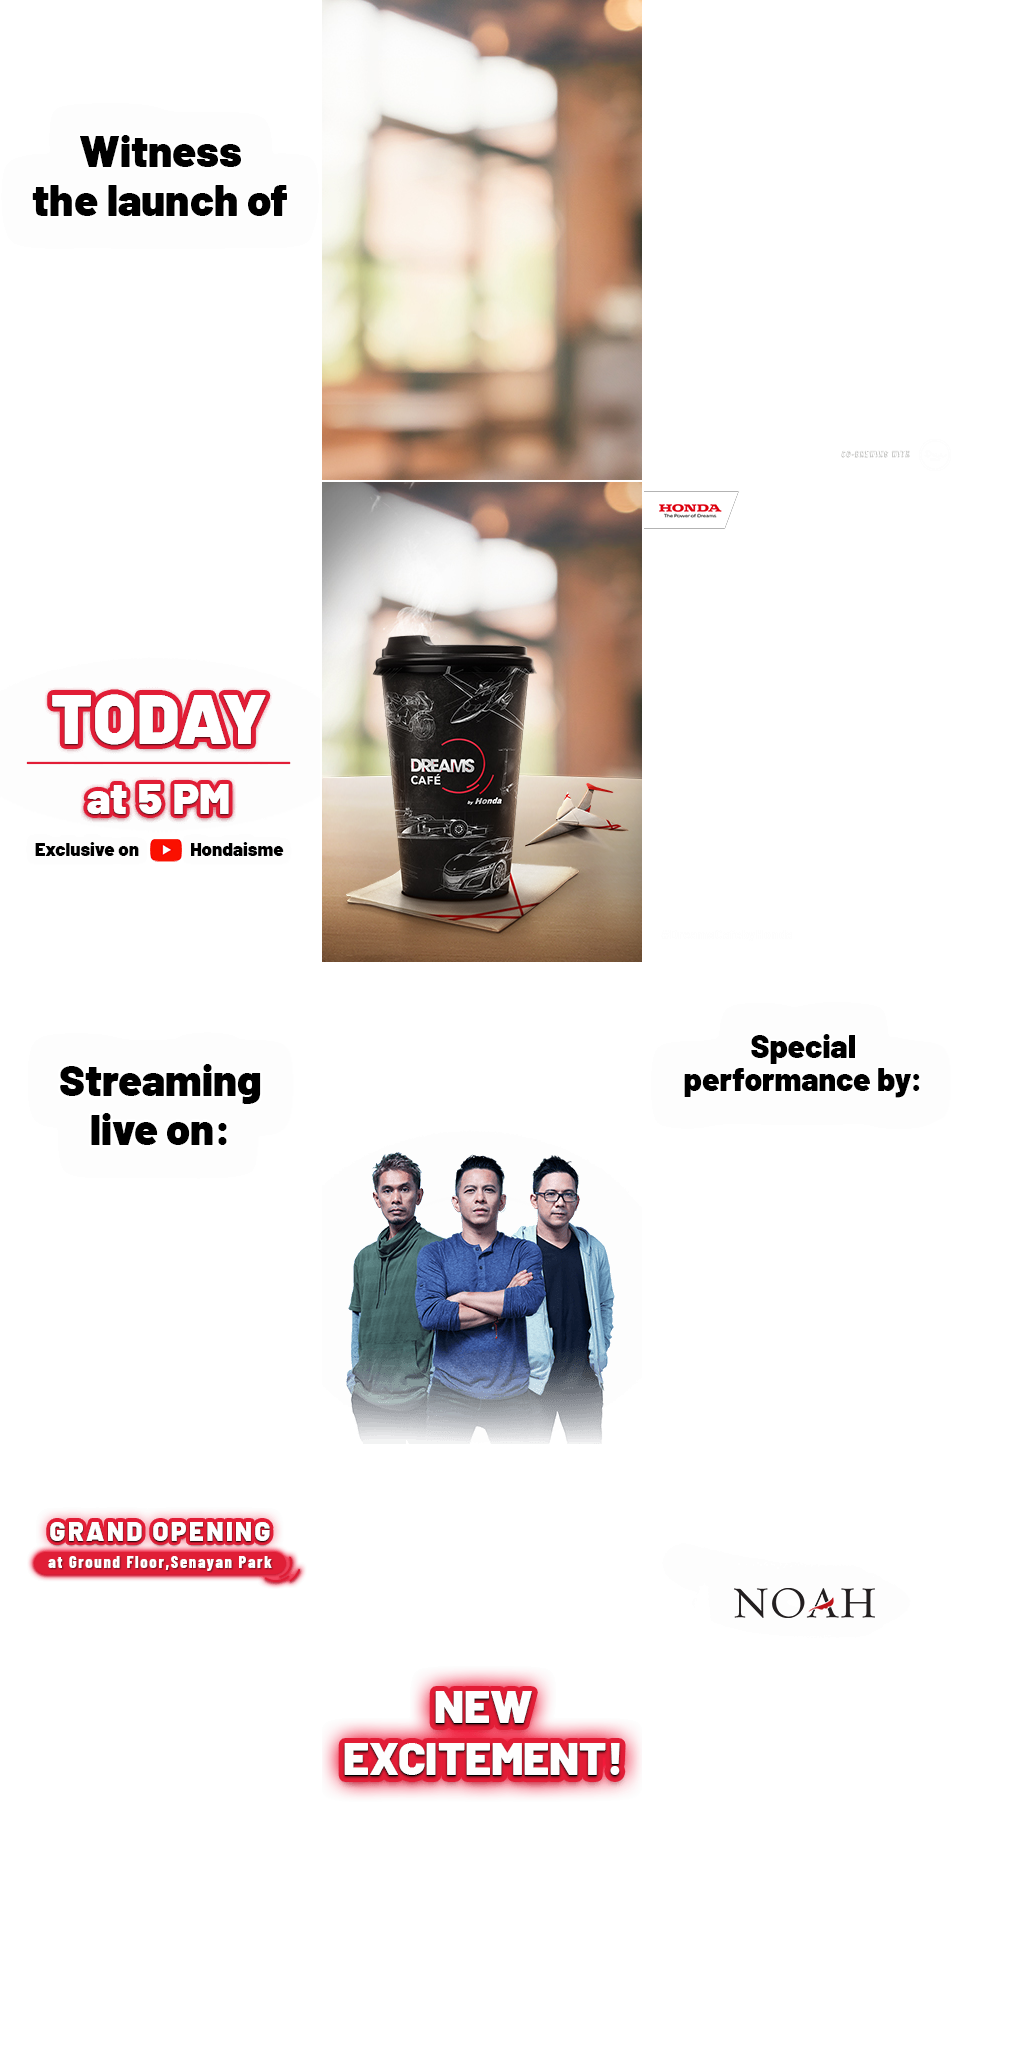
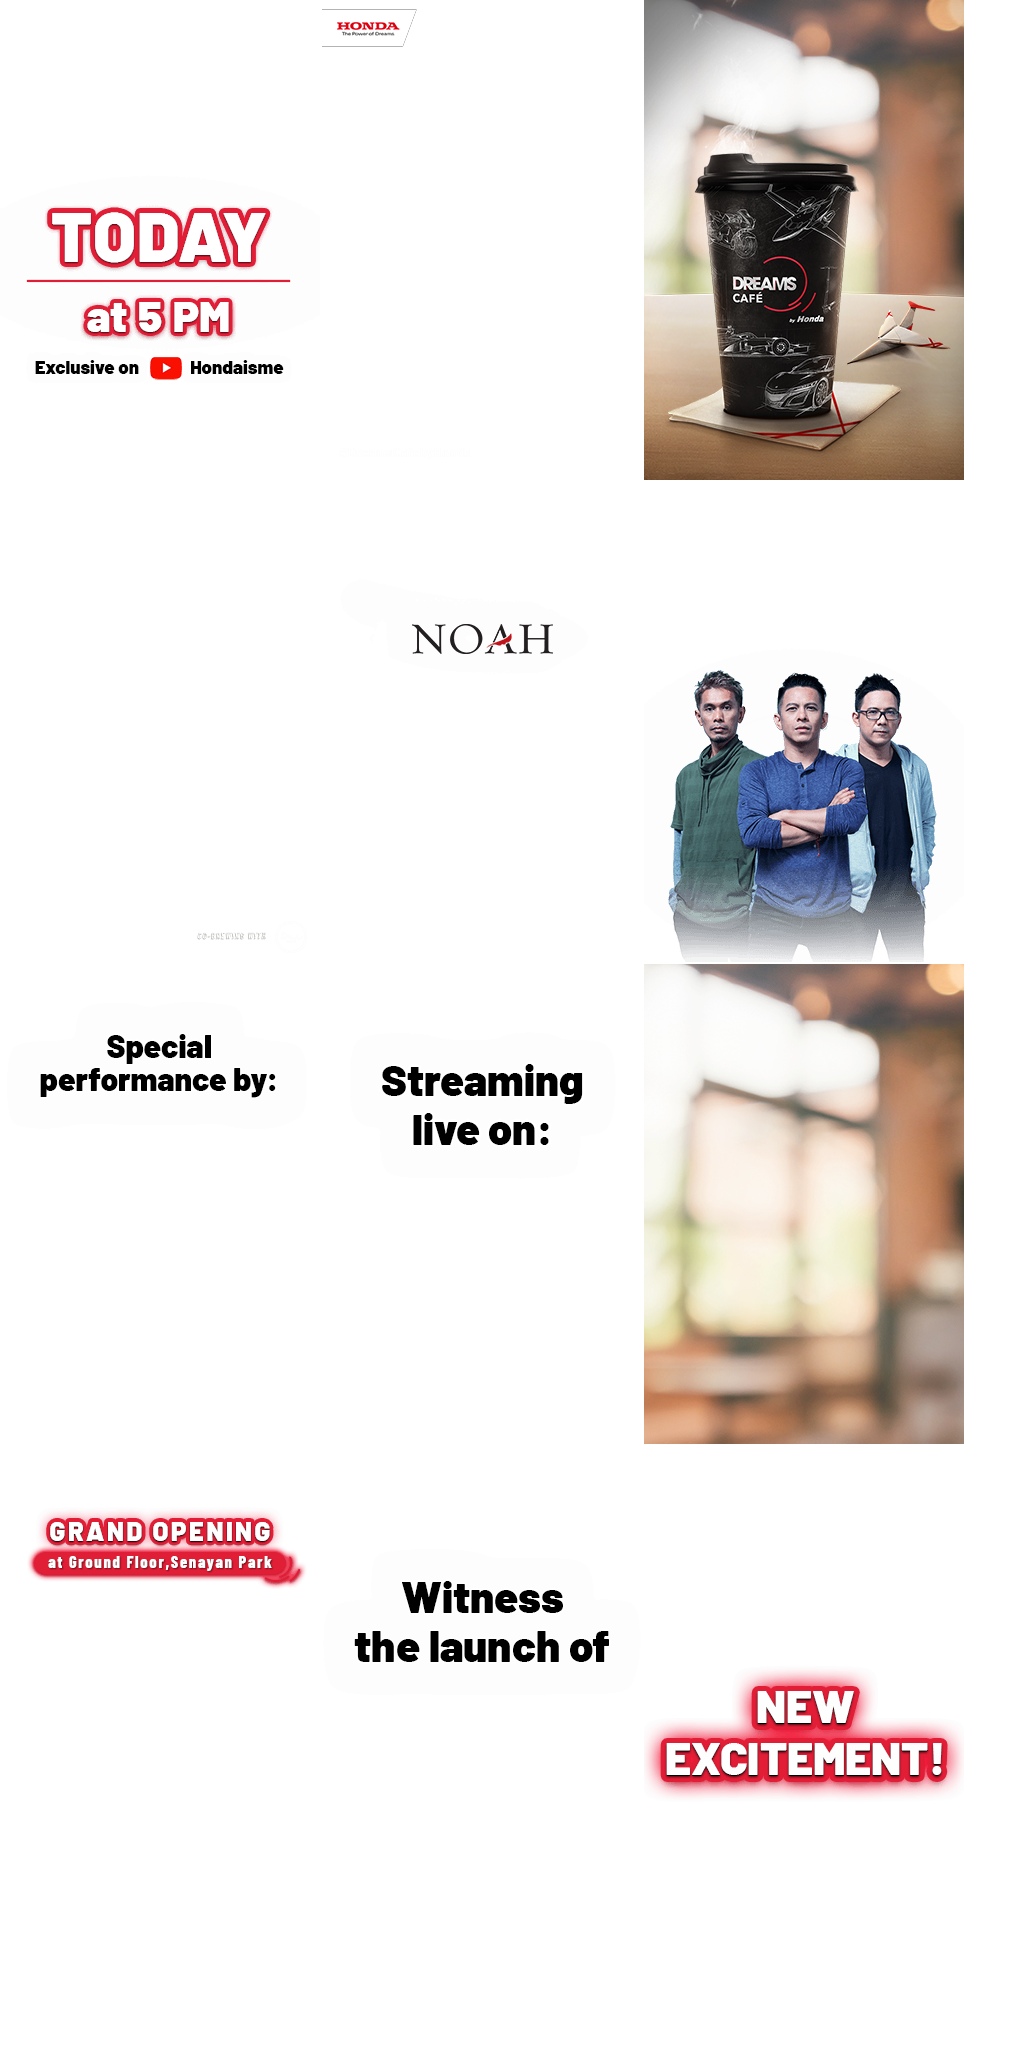
sef

diff --git a/m.idntimes/megabillboard/honda-april/d2/src/320x480/320x480.js b/m.idntimes/megabillboard/honda-april/d2/src/320x480/320x480.js
@@ -3,7 +3,7 @@
 var p; // shortcut to reference prototypes
 var lib={};var ss={};var img={};
 lib.ssMetadata = [
-		{name:"320x480_atlas_", frames: [[322,0,320,480],[644,0,320,480],[0,0,320,480],[322,1446,320,480],[0,1446,320,480],[644,1446,320,480],[322,964,320,480],[644,964,320,480],[0,964,320,480],[0,482,320,480],[322,482,320,480],[644,482,320,480]]}
+		{name:"320x480_atlas_", frames: [[644,964,320,480],[0,482,320,480],[322,1446,320,480],[644,1446,320,480],[0,1446,320,480],[322,482,320,480],[644,482,320,480],[0,964,320,480],[322,964,320,480],[0,0,320,480],[644,0,320,480],[322,0,320,480]]}
 ];
 
 
@@ -382,7 +382,7 @@ p.nominalBounds = new cjs.Rectangle(-160,-240,320,480);
 	this.instance = new lib.logo();
 	this.instance.parent = this;
 
-	this.timeline.addTween(cjs.Tween.get(this.instance).wait(225));
+	this.timeline.addTween(cjs.Tween.get(this.instance).wait(285));
 
 }).prototype = p = new cjs.MovieClip();
 
@@ -394,7 +394,7 @@ p.nominalBounds = new cjs.Rectangle(-160,-240,320,480);
 	this.instance = new lib.bg();
 	this.instance.parent = this;
 
-	this.timeline.addTween(cjs.Tween.get(this.instance).wait(225));
+	this.timeline.addTween(cjs.Tween.get(this.instance).wait(285));
 
 }).prototype = p = new cjs.MovieClip();
 
@@ -414,8 +414,8 @@ p.nominalBounds = new cjs.Rectangle(-160,-240,320,480);
 	this.instance_1.setTransform(160,240);
 	this.instance_1._off = true;
 
-	this.timeline.addTween(cjs.Tween.get(this.instance).wait(7).to({_off:false},0).to({_off:true,x:160,alpha:1},5,cjs.Ease.quintOut).wait(43));
-	this.timeline.addTween(cjs.Tween.get(this.instance_1).wait(7).to({_off:false},5,cjs.Ease.quintOut).wait(36).to({startPosition:0},0).to({x:475.15,alpha:0},6,cjs.Ease.quintIn).wait(1));
+	this.timeline.addTween(cjs.Tween.get(this.instance).wait(7).to({_off:false},0).to({_off:true,x:160,alpha:1},7,cjs.Ease.quintOut).wait(57));
+	this.timeline.addTween(cjs.Tween.get(this.instance_1).wait(7).to({_off:false},7,cjs.Ease.quintOut).wait(48).to({startPosition:0},0).to({x:475.15,alpha:0},8,cjs.Ease.quadIn).wait(1));
 
 }).prototype = p = new cjs.MovieClip();
 
@@ -426,7 +426,7 @@ p.nominalBounds = new cjs.Rectangle(-160,-240,320,480);
 	// frame11
 	this.instance = new lib.Tween1("synched",0);
 	this.instance.parent = this;
-	this.instance.setTransform(460.45,240);
+	this.instance.setTransform(454.55,240);
 	this.instance.alpha = 0;
 	this.instance._off = true;
 
@@ -435,8 +435,8 @@ p.nominalBounds = new cjs.Rectangle(-160,-240,320,480);
 	this.instance_1.setTransform(160,240);
 	this.instance_1._off = true;
 
-	this.timeline.addTween(cjs.Tween.get(this.instance).wait(4).to({_off:false},0).to({_off:true,x:160,alpha:1},5,cjs.Ease.quintOut).wait(46));
-	this.timeline.addTween(cjs.Tween.get(this.instance_1).wait(4).to({_off:false},5,cjs.Ease.quintOut).wait(39).to({startPosition:0},0).to({x:-132.65,alpha:0},6,cjs.Ease.quintIn).wait(1));
+	this.timeline.addTween(cjs.Tween.get(this.instance).wait(4).to({_off:false},0).to({_off:true,x:160,alpha:1},7,cjs.Ease.quintOut).wait(60));
+	this.timeline.addTween(cjs.Tween.get(this.instance_1).wait(4).to({_off:false},7,cjs.Ease.quintOut).wait(51).to({startPosition:0},0).to({x:-132.65,alpha:0},8,cjs.Ease.quadIn).wait(1));
 
 }).prototype = p = new cjs.MovieClip();
 
@@ -455,8 +455,8 @@ p.nominalBounds = new cjs.Rectangle(-160,-240,320,480);
 	this.instance_1.parent = this;
 	this.instance_1.setTransform(160,240);
 
-	this.timeline.addTween(cjs.Tween.get({}).to({state:[]}).to({state:[{t:this.instance}]},173).to({state:[{t:this.instance_1}]},6).wait(46));
-	this.timeline.addTween(cjs.Tween.get(this.instance).wait(173).to({_off:false},0).to({_off:true,y:240,alpha:1},6,cjs.Ease.quintOut).wait(46));
+	this.timeline.addTween(cjs.Tween.get({}).to({state:[]}).to({state:[{t:this.instance}]},215).to({state:[{t:this.instance_1}]},8).wait(62));
+	this.timeline.addTween(cjs.Tween.get(this.instance).wait(215).to({_off:false},0).to({_off:true,y:240,alpha:1},8,cjs.Ease.quintOut).wait(62));
 
 }).prototype = p = new cjs.MovieClip();
 
@@ -475,8 +475,8 @@ p.nominalBounds = new cjs.Rectangle(-160,-240,320,480);
 	this.instance_1.parent = this;
 	this.instance_1.setTransform(160,240);
 
-	this.timeline.addTween(cjs.Tween.get({}).to({state:[]}).to({state:[{t:this.instance}]},167).to({state:[{t:this.instance_1}]},7).wait(51));
-	this.timeline.addTween(cjs.Tween.get(this.instance).wait(167).to({_off:false},0).to({_off:true,regX:0,scaleX:1,scaleY:1,x:160,y:240,alpha:1},7,cjs.Ease.quintOut).wait(51));
+	this.timeline.addTween(cjs.Tween.get({}).to({state:[]}).to({state:[{t:this.instance}]},211).to({state:[{t:this.instance_1}]},8).wait(66));
+	this.timeline.addTween(cjs.Tween.get(this.instance).wait(211).to({_off:false},0).to({_off:true,regX:0,scaleX:1,scaleY:1,x:160,y:240,alpha:1},8,cjs.Ease.quintOut).wait(66));
 
 }).prototype = p = new cjs.MovieClip();
 
@@ -487,7 +487,7 @@ p.nominalBounds = new cjs.Rectangle(-160,-240,320,480);
 	// frame3text
 	this.instance = new lib.Tween11("synched",0);
 	this.instance.parent = this;
-	this.instance.setTransform(160,177.4);
+	this.instance.setTransform(160,96.2);
 	this.instance.alpha = 0;
 	this.instance._off = true;
 
@@ -496,8 +496,8 @@ p.nominalBounds = new cjs.Rectangle(-160,-240,320,480);
 	this.instance_1.setTransform(160,240);
 	this.instance_1._off = true;
 
-	this.timeline.addTween(cjs.Tween.get(this.instance).wait(109).to({_off:false},0).to({_off:true,y:240,alpha:1},5,cjs.Ease.quintOut).wait(56));
-	this.timeline.addTween(cjs.Tween.get(this.instance_1).wait(109).to({_off:false},5,cjs.Ease.quintOut).wait(50).to({startPosition:0},0).to({alpha:0},5,cjs.Ease.quintIn).wait(1));
+	this.timeline.addTween(cjs.Tween.get(this.instance).wait(136).to({_off:false},0).to({_off:true,y:240,alpha:1},8,cjs.Ease.quintOut).wait(70));
+	this.timeline.addTween(cjs.Tween.get(this.instance_1).wait(136).to({_off:false},8,cjs.Ease.quintOut).wait(64).to({startPosition:0},0).to({alpha:0},5,cjs.Ease.quintIn).wait(1));
 
 }).prototype = p = new cjs.MovieClip();
 
@@ -517,8 +517,8 @@ p.nominalBounds = new cjs.Rectangle(-160,-240,320,480);
 	this.instance_1.setTransform(160,240);
 	this.instance_1._off = true;
 
-	this.timeline.addTween(cjs.Tween.get(this.instance).wait(114).to({_off:false},0).to({_off:true,y:240,alpha:1},5,cjs.Ease.quintOut).wait(51));
-	this.timeline.addTween(cjs.Tween.get(this.instance_1).wait(114).to({_off:false},5,cjs.Ease.quintOut).wait(45).to({startPosition:0},0).to({y:407.4,alpha:0},5,cjs.Ease.quintIn).wait(1));
+	this.timeline.addTween(cjs.Tween.get(this.instance).wait(141).to({_off:false},0).to({_off:true,y:240,alpha:1},7,cjs.Ease.quintOut).wait(66));
+	this.timeline.addTween(cjs.Tween.get(this.instance_1).wait(141).to({_off:false},7,cjs.Ease.quintOut).wait(60).to({startPosition:0},0).to({y:407.4,alpha:0},5,cjs.Ease.quintIn).wait(1));
 
 }).prototype = p = new cjs.MovieClip();
 
@@ -538,8 +538,8 @@ p.nominalBounds = new cjs.Rectangle(-160,-240,320,480);
 	this.instance_1.setTransform(160,240);
 	this.instance_1._off = true;
 
-	this.timeline.addTween(cjs.Tween.get(this.instance).wait(114).to({_off:false},0).to({_off:true,scaleX:1,scaleY:1,y:240,alpha:1},5,cjs.Ease.quintOut).wait(51));
-	this.timeline.addTween(cjs.Tween.get(this.instance_1).wait(114).to({_off:false},5,cjs.Ease.quintOut).wait(45).to({startPosition:0},0).to({alpha:0},5,cjs.Ease.quintIn).wait(1));
+	this.timeline.addTween(cjs.Tween.get(this.instance).wait(141).to({_off:false},0).to({_off:true,scaleX:1,scaleY:1,y:240,alpha:1},7,cjs.Ease.quintOut).wait(66));
+	this.timeline.addTween(cjs.Tween.get(this.instance_1).wait(141).to({_off:false},7,cjs.Ease.quintOut).wait(60).to({startPosition:0},0).to({alpha:0},5,cjs.Ease.quintIn).wait(1));
 
 }).prototype = p = new cjs.MovieClip();
 
@@ -559,8 +559,8 @@ p.nominalBounds = new cjs.Rectangle(-160,-240,320,480);
 	this.instance_1.setTransform(160,240);
 	this.instance_1._off = true;
 
-	this.timeline.addTween(cjs.Tween.get(this.instance).wait(57).to({_off:false},0).to({_off:true,alpha:1},7,cjs.Ease.quintOut).wait(49));
-	this.timeline.addTween(cjs.Tween.get(this.instance_1).wait(57).to({_off:false},7,cjs.Ease.quintOut).wait(41).to({startPosition:0},0).to({alpha:0},7).wait(1));
+	this.timeline.addTween(cjs.Tween.get(this.instance).wait(74).to({_off:false},0).to({_off:true,alpha:1},7,cjs.Ease.quintOut).wait(60));
+	this.timeline.addTween(cjs.Tween.get(this.instance_1).wait(74).to({_off:false},7,cjs.Ease.quintOut).wait(52).to({startPosition:0},0).to({alpha:0},7).wait(1));
 
 }).prototype = p = new cjs.MovieClip();
 
@@ -580,8 +580,8 @@ p.nominalBounds = new cjs.Rectangle(-160,-240,320,480);
 	this.instance_1.setTransform(160,240);
 	this.instance_1._off = true;
 
-	this.timeline.addTween(cjs.Tween.get(this.instance).wait(52).to({_off:false},0).to({_off:true,alpha:1},7).wait(54));
-	this.timeline.addTween(cjs.Tween.get(this.instance_1).wait(52).to({_off:false},7).wait(46).to({startPosition:0},0).to({alpha:0},7).wait(1));
+	this.timeline.addTween(cjs.Tween.get(this.instance).wait(69).to({_off:false},0).to({_off:true,alpha:1},7).wait(65));
+	this.timeline.addTween(cjs.Tween.get(this.instance_1).wait(69).to({_off:false},7).wait(57).to({startPosition:0},0).to({alpha:0},7).wait(1));
 
 }).prototype = p = new cjs.MovieClip();
 
@@ -600,8 +600,8 @@ p.nominalBounds = new cjs.Rectangle(-160,-240,320,480);
 	this.instance_1.parent = this;
 	this.instance_1.setTransform(160,240);
 
-	this.timeline.addTween(cjs.Tween.get({}).to({state:[]}).to({state:[{t:this.instance}]},59).to({state:[{t:this.instance_1}]},10).wait(156));
-	this.timeline.addTween(cjs.Tween.get(this.instance).wait(59).to({_off:false},0).to({_off:true,alpha:1},10).wait(156));
+	this.timeline.addTween(cjs.Tween.get({}).to({state:[]}).to({state:[{t:this.instance}]},75).to({state:[{t:this.instance_1}]},10).wait(200));
+	this.timeline.addTween(cjs.Tween.get(this.instance).wait(75).to({_off:false},0).to({_off:true,alpha:1},10).wait(200));
 
 }).prototype = p = new cjs.MovieClip();
 
@@ -640,12 +640,12 @@ p.nominalBounds = new cjs.Rectangle(-160,-240,320,480);
 	});
 
 	// timeline functions:
-	this.frame_224 = function() {
+	this.frame_284 = function() {
 		this.___loopingOver___ = true;
 	}
 
 	// actions tween:
-	this.timeline.addTween(cjs.Tween.get(this).wait(224).call(this.frame_224).wait(1));
+	this.timeline.addTween(cjs.Tween.get(this).wait(284).call(this.frame_284).wait(1));
 
 	// logo_obj_
 	this.logo = new lib.Scene_1_logo();
@@ -659,7 +659,7 @@ p.nominalBounds = new cjs.Rectangle(-160,-240,320,480);
 	this.logo.layerIndex = 0
 	this.logo.maskLayerName = 0
 
-	this.timeline.addTween(cjs.Tween.get(this.logo).wait(225));
+	this.timeline.addTween(cjs.Tween.get(this.logo).wait(285));
 
 	// dualogo_obj_
 	this.dualogo = new lib.Scene_1_dualogo();
@@ -672,7 +672,7 @@ p.nominalBounds = new cjs.Rectangle(-160,-240,320,480);
 	this.dualogo.layerIndex = 1
 	this.dualogo.maskLayerName = 0
 
-	this.timeline.addTween(cjs.Tween.get(this.dualogo).wait(225));
+	this.timeline.addTween(cjs.Tween.get(this.dualogo).wait(285));
 
 	// frame4today_obj_
 	this.frame4today = new lib.Scene_1_frame4today();
@@ -685,7 +685,7 @@ p.nominalBounds = new cjs.Rectangle(-160,-240,320,480);
 	this.frame4today.layerIndex = 2
 	this.frame4today.maskLayerName = 0
 
-	this.timeline.addTween(cjs.Tween.get(this.frame4today).wait(225));
+	this.timeline.addTween(cjs.Tween.get(this.frame4today).wait(285));
 
 	// frame4stream_obj_
 	this.frame4stream = new lib.Scene_1_frame4stream();
@@ -698,7 +698,7 @@ p.nominalBounds = new cjs.Rectangle(-160,-240,320,480);
 	this.frame4stream.layerIndex = 3
 	this.frame4stream.maskLayerName = 0
 
-	this.timeline.addTween(cjs.Tween.get(this.frame4stream).wait(225));
+	this.timeline.addTween(cjs.Tween.get(this.frame4stream).wait(285));
 
 	// frame3logo_obj_
 	this.frame3logo = new lib.Scene_1_frame3logo();
@@ -711,7 +711,7 @@ p.nominalBounds = new cjs.Rectangle(-160,-240,320,480);
 	this.frame3logo.layerIndex = 4
 	this.frame3logo.maskLayerName = 0
 
-	this.timeline.addTween(cjs.Tween.get(this.frame3logo).wait(169).to({_off:true},1).wait(55));
+	this.timeline.addTween(cjs.Tween.get(this.frame3logo).wait(213).to({_off:true},1).wait(71));
 
 	// frame3noah_obj_
 	this.frame3noah = new lib.Scene_1_frame3noah();
@@ -724,7 +724,7 @@ p.nominalBounds = new cjs.Rectangle(-160,-240,320,480);
 	this.frame3noah.layerIndex = 5
 	this.frame3noah.maskLayerName = 0
 
-	this.timeline.addTween(cjs.Tween.get(this.frame3noah).wait(169).to({_off:true},1).wait(55));
+	this.timeline.addTween(cjs.Tween.get(this.frame3noah).wait(213).to({_off:true},1).wait(71));
 
 	// frame3text_obj_
 	this.frame3text = new lib.Scene_1_frame3text();
@@ -737,7 +737,7 @@ p.nominalBounds = new cjs.Rectangle(-160,-240,320,480);
 	this.frame3text.layerIndex = 6
 	this.frame3text.maskLayerName = 0
 
-	this.timeline.addTween(cjs.Tween.get(this.frame3text).wait(169).to({_off:true},1).wait(55));
+	this.timeline.addTween(cjs.Tween.get(this.frame3text).wait(213).to({_off:true},1).wait(71));
 
 	// frame2text_obj_
 	this.frame2text = new lib.Scene_1_frame2text();
@@ -750,7 +750,7 @@ p.nominalBounds = new cjs.Rectangle(-160,-240,320,480);
 	this.frame2text.layerIndex = 7
 	this.frame2text.maskLayerName = 0
 
-	this.timeline.addTween(cjs.Tween.get(this.frame2text).wait(112).to({_off:true},1).wait(112));
+	this.timeline.addTween(cjs.Tween.get(this.frame2text).wait(140).to({_off:true},1).wait(144));
 
 	// frame2kopi_obj_
 	this.frame2kopi = new lib.Scene_1_frame2kopi();
@@ -763,7 +763,7 @@ p.nominalBounds = new cjs.Rectangle(-160,-240,320,480);
 	this.frame2kopi.layerIndex = 8
 	this.frame2kopi.maskLayerName = 0
 
-	this.timeline.addTween(cjs.Tween.get(this.frame2kopi).wait(112).to({_off:true},1).wait(112));
+	this.timeline.addTween(cjs.Tween.get(this.frame2kopi).wait(140).to({_off:true},1).wait(144));
 
 	// frame12_obj_
 	this.frame12 = new lib.Scene_1_frame12();
@@ -776,7 +776,7 @@ p.nominalBounds = new cjs.Rectangle(-160,-240,320,480);
 	this.frame12.layerIndex = 9
 	this.frame12.maskLayerName = 0
 
-	this.timeline.addTween(cjs.Tween.get(this.frame12).wait(54).to({_off:true},1).wait(170));
+	this.timeline.addTween(cjs.Tween.get(this.frame12).wait(70).to({_off:true},1).wait(214));
 
 	// frame11_obj_
 	this.frame11 = new lib.Scene_1_frame11();
@@ -789,7 +789,7 @@ p.nominalBounds = new cjs.Rectangle(-160,-240,320,480);
 	this.frame11.layerIndex = 10
 	this.frame11.maskLayerName = 0
 
-	this.timeline.addTween(cjs.Tween.get(this.frame11).wait(54).to({_off:true},1).wait(170));
+	this.timeline.addTween(cjs.Tween.get(this.frame11).wait(70).to({_off:true},1).wait(214));
 
 	// bg_obj_
 	this.bg = new lib.Scene_1_bg();
@@ -803,10 +803,10 @@ p.nominalBounds = new cjs.Rectangle(-160,-240,320,480);
 	this.bg.layerIndex = 11
 	this.bg.maskLayerName = 0
 
-	this.timeline.addTween(cjs.Tween.get(this.bg).wait(225));
+	this.timeline.addTween(cjs.Tween.get(this.bg).wait(285));
 
 }).prototype = p = new cjs.MovieClip();
-p.nominalBounds = new cjs.Rectangle(-144.4,177.4,779.6,653);
+p.nominalBounds = new cjs.Rectangle(-144.4,96.2,779.6,734.1999999999999);
 // library properties:
 lib.properties = {
 	id: 'F1D7E1B01E31A748A6E9625CA6EB3C05',
